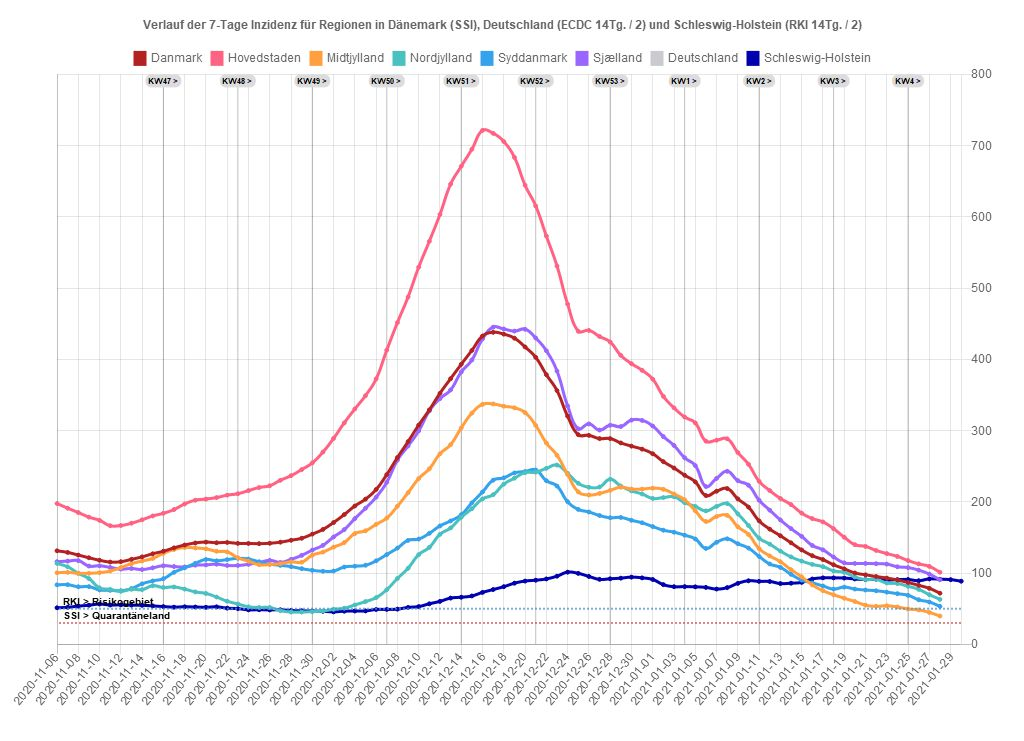
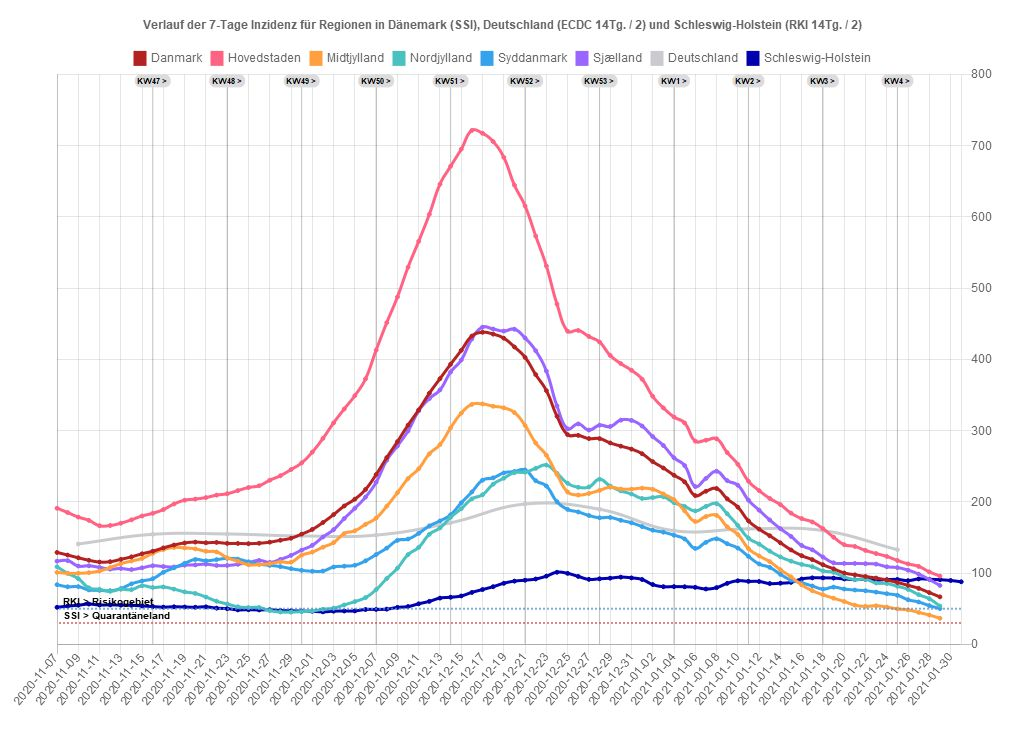
31.01.2021 14:21:19,49

diff --git a/dk/regioner.js b/dk/regioner.js
@@ -1,49 +1,49 @@
 var chdata={ type:'line',
-last_update: '2021-01-30',
-last_dk_data: '2021-01-28',
+last_update: '2021-01-31',
+last_dk_data: '2021-01-29',
 data: {
-labels: ["2020-11-06","2020-11-07","2020-11-08","2020-11-09","2020-11-10","2020-11-11","2020-11-12","2020-11-13","2020-11-14","2020-11-15","2020-11-16","2020-11-17","2020-11-18","2020-11-19","2020-11-20","2020-11-21","2020-11-22","2020-11-23","2020-11-24","2020-11-25","2020-11-26","2020-11-27","2020-11-28","2020-11-29","2020-11-30","2020-12-01","2020-12-02","2020-12-03","2020-12-04","2020-12-05","2020-12-06","2020-12-07","2020-12-08","2020-12-09","2020-12-10","2020-12-11","2020-12-12","2020-12-13","2020-12-14","2020-12-15","2020-12-16","2020-12-17","2020-12-18","2020-12-19","2020-12-20","2020-12-21","2020-12-22","2020-12-23","2020-12-24","2020-12-25","2020-12-26","2020-12-27","2020-12-28","2020-12-29","2020-12-30","2020-12-31","2021-01-01","2021-01-02","2021-01-03","2021-01-04","2021-01-05","2021-01-06","2021-01-07","2021-01-08","2021-01-09","2021-01-10","2021-01-11","2021-01-12","2021-01-13","2021-01-14","2021-01-15","2021-01-16","2021-01-17","2021-01-18","2021-01-19","2021-01-20","2021-01-21","2021-01-22","2021-01-23","2021-01-24","2021-01-25","2021-01-26","2021-01-27","2021-01-28","2021-01-29","2021-01-30"],
+labels: ["2020-11-07","2020-11-08","2020-11-09","2020-11-10","2020-11-11","2020-11-12","2020-11-13","2020-11-14","2020-11-15","2020-11-16","2020-11-17","2020-11-18","2020-11-19","2020-11-20","2020-11-21","2020-11-22","2020-11-23","2020-11-24","2020-11-25","2020-11-26","2020-11-27","2020-11-28","2020-11-29","2020-11-30","2020-12-01","2020-12-02","2020-12-03","2020-12-04","2020-12-05","2020-12-06","2020-12-07","2020-12-08","2020-12-09","2020-12-10","2020-12-11","2020-12-12","2020-12-13","2020-12-14","2020-12-15","2020-12-16","2020-12-17","2020-12-18","2020-12-19","2020-12-20","2020-12-21","2020-12-22","2020-12-23","2020-12-24","2020-12-25","2020-12-26","2020-12-27","2020-12-28","2020-12-29","2020-12-30","2020-12-31","2021-01-01","2021-01-02","2021-01-03","2021-01-04","2021-01-05","2021-01-06","2021-01-07","2021-01-08","2021-01-09","2021-01-10","2021-01-11","2021-01-12","2021-01-13","2021-01-14","2021-01-15","2021-01-16","2021-01-17","2021-01-18","2021-01-19","2021-01-20","2021-01-21","2021-01-22","2021-01-23","2021-01-24","2021-01-25","2021-01-26","2021-01-27","2021-01-28","2021-01-29","2021-01-30","2021-01-31"],
 datasets: [
 {label: 'Danmark',
 backgroundColor: window.chartColors.firebrick,
 borderColor: window.chartColors.firebrick,
 fill: false,
-data: [131.3,129.0,125.3,121.5,118.0,115.5,116.0,119.3,122.8,127.1,130.7,135.4,139.4,142.3,143.5,142.6,143.0,141.7,141.6,141.3,141.9,143.4,146.1,148.9,154.7,161.3,171.0,182.1,194.2,203.8,217.4,238.3,262.2,284.5,307.7,329.1,352.4,372.9,393.1,412.6,432.7,438.0,435.4,429.7,417.4,402.8,378.6,356.2,320.2,294.3,293.3,288.8,288.8,282.7,278.2,274.0,267.5,256.4,247.5,237.4,228.0,208.8,214.9,218.7,204.2,192.6,173.3,161.7,152.4,142.5,132.5,124.4,118.9,111.7,106.0,100.2,97.6,95.2,93.0,90.3,86.8,82.8,78.6,71.8]},
+data: [129.0,125.3,121.5,118.0,115.5,116.0,119.3,122.8,127.1,130.7,135.4,139.4,142.3,143.5,142.6,143.0,141.7,141.6,141.3,141.9,143.4,146.1,148.9,154.7,161.3,171.0,182.1,194.2,203.8,217.4,238.3,262.2,284.5,307.7,329.1,352.4,372.9,393.1,412.6,432.7,438.0,435.4,429.7,417.4,402.8,378.6,356.2,320.2,294.3,293.3,288.8,288.8,282.7,278.2,274.0,267.5,256.4,247.5,237.4,228.0,208.8,214.9,218.7,204.2,192.6,173.3,161.7,152.4,142.5,132.5,124.4,118.9,111.7,106.0,100.2,97.6,95.2,93.0,90.3,86.8,82.8,78.6,72.6,66.6]},
 {label: 'Hovedstaden',
 backgroundColor: window.chartColors.red,
 borderColor: window.chartColors.red,
 fill: false,
-data: [197.7,191.1,185.0,178.6,174.0,166.5,166.8,170.0,174.8,180.2,183.9,189.2,197.0,202.3,203.9,206.0,209.4,211.4,215.8,220.1,222.6,230.3,236.7,245.3,254.7,269.9,289.1,310.8,330.4,349.1,372.6,413.0,451.6,487.5,529.4,565.7,603.5,645.9,671.0,695.0,721.4,717.3,705.7,683.5,644.5,615.3,573.1,531.1,477.6,439.5,440.6,432.1,424.3,405.6,394.0,384.7,372.2,348.1,331.9,319.1,310.7,285.2,286.5,288.5,269.2,252.7,228.9,215.8,204.8,196.1,184.2,176.5,171.8,162.3,150.4,139.9,137.4,131.8,127.4,123.4,117.6,112.9,109.4,101.2]},
+data: [191.1,185.0,178.6,174.0,166.5,166.8,170.0,174.8,180.2,183.9,189.2,197.0,202.3,203.9,206.0,209.4,211.4,215.8,220.1,222.6,230.3,236.7,245.3,254.7,269.9,289.1,310.8,330.4,349.1,372.6,413.0,451.6,487.5,529.4,565.7,603.5,645.9,671.0,695.0,721.4,717.3,705.7,683.5,644.5,615.3,573.1,531.1,477.6,439.5,440.6,432.1,424.3,405.6,394.0,384.7,372.2,348.1,331.9,319.1,310.7,285.2,286.5,288.5,269.2,252.7,228.9,215.8,204.8,196.1,184.2,176.5,171.8,162.3,150.4,139.9,137.4,131.8,127.4,123.4,117.7,112.9,109.4,101.7,95.8]},
 {label: 'Midtjylland',
 backgroundColor: window.chartColors.orange,
 borderColor: window.chartColors.orange,
 fill: false,
-data: [100.4,101.0,99.7,99.7,100.6,102.9,107.8,113.2,116.9,120.6,127.7,133.1,135.9,135.3,134.0,130.6,129.7,121.5,116.7,111.7,112.0,113.2,115.8,115.3,125.1,129.5,136.4,142.8,155.5,159.4,168.4,177.2,193.9,212.8,232.7,246.4,267.4,280.3,303.8,324.5,336.8,337.4,334.2,332.0,325.3,307.2,282.6,265.4,238.4,213.9,209.6,211.8,216.1,220.5,218.0,217.9,219.2,217.6,211.0,202.9,187.4,172.4,179.4,181.0,165.0,154.2,134.4,124.1,116.0,104.8,94.7,83.4,75.3,69.6,64.7,60.1,55.0,53.3,54.1,52.4,49.7,48.3,44.8,39.7]},
+data: [101.0,99.7,99.7,100.6,102.9,107.8,113.2,116.9,120.6,127.7,133.1,135.9,135.3,134.0,130.6,129.7,121.5,116.7,111.7,112.0,113.2,115.8,115.3,125.1,129.5,136.4,142.8,155.5,159.4,168.4,177.2,193.9,212.8,232.7,246.4,267.4,280.3,303.8,324.5,336.8,337.4,334.2,332.0,325.3,307.2,282.6,265.4,238.4,213.9,209.6,211.8,216.1,220.5,218.0,217.9,219.2,217.6,211.0,202.9,187.4,172.4,179.4,181.0,165.0,154.2,134.4,124.1,116.0,104.8,94.7,83.4,75.3,69.6,64.7,60.1,55.0,53.3,54.1,52.4,49.7,48.3,44.8,41.1,36.6]},
 {label: 'Nordjylland',
 backgroundColor: window.chartColors.green,
 borderColor: window.chartColors.green,
 fill: false,
-data: [113.6,108.8,99.7,92.2,79.3,77.1,74.4,77.3,76.8,82.2,79.8,80.5,77.5,73.6,71.4,66.4,60.5,56.6,52.7,51.7,51.7,47.3,45.4,45.3,45.9,46.8,49.2,50.7,55.3,60.0,65.6,76.8,92.4,106.8,125.9,136.1,154.4,163.4,178.3,190.4,204.1,210.0,224.8,233.2,241.0,241.7,247.0,251.6,240.0,226.1,220.5,220.9,231.7,222.2,215.4,211.0,204.8,206.0,207.1,198.8,193.6,187.3,193.6,197.5,183.2,166.8,149.0,140.7,130.9,122.7,116.8,112.2,109.0,103.1,101.0,94.6,90.9,91.2,86.1,85.3,81.5,77.1,69.7,63.1]},
+data: [108.8,99.7,92.2,79.3,77.1,74.4,77.3,76.8,82.2,79.8,80.5,77.5,73.6,71.4,66.4,60.5,56.6,52.7,51.7,51.7,47.3,45.4,45.3,45.9,46.8,49.2,50.7,55.3,60.0,65.6,76.8,92.4,106.8,125.9,136.1,154.4,163.4,178.3,190.4,204.1,210.0,224.8,233.2,241.0,241.7,247.0,251.6,240.0,226.1,220.5,220.9,231.7,222.2,215.4,211.0,204.8,206.0,207.1,198.8,193.6,187.3,193.6,197.5,183.2,166.8,149.0,140.7,130.9,122.7,116.8,112.2,109.0,103.1,101.0,94.6,90.9,91.2,86.1,85.3,81.5,77.1,69.7,63.9,53.7]},
 {label: 'Syddanmark',
 backgroundColor: window.chartColors.blue,
 borderColor: window.chartColors.blue,
 fill: false,
-data: [83.5,83.7,80.8,81.0,76.4,75.8,75.3,78.3,84.9,89.0,92.1,101.1,107.3,113.7,119.1,117.3,118.9,120.7,119.6,115.9,112.5,110.9,109.1,106.2,103.9,102.6,102.9,108.5,109.7,111.0,117.2,126.0,135.1,145.9,147.8,155.8,166.2,173.2,181.9,198.6,213.9,230.4,233.7,240.6,242.6,244.8,229.7,222.2,200.2,189.4,185.8,180.8,177.7,178.1,174.1,170.6,165.3,160.2,157.4,153.2,147.9,134.6,143.2,148.1,141.2,135.1,123.4,112.8,108.0,98.3,90.1,86.3,81.9,77.6,80.3,77.6,76.2,75.2,73.3,71.1,68.8,62.6,59.4,53.3]},
+data: [83.7,80.8,81.0,76.4,75.8,75.3,78.3,84.9,89.0,92.1,101.1,107.3,113.7,119.1,117.3,118.9,120.7,119.6,115.9,112.5,110.9,109.1,106.2,103.9,102.6,102.9,108.5,109.7,111.0,117.2,126.0,135.1,145.9,147.8,155.8,166.2,173.2,181.9,198.6,213.9,230.4,233.7,240.6,242.6,244.8,229.7,222.2,200.2,189.4,185.8,180.8,177.7,178.1,174.1,170.6,165.3,160.2,157.4,153.2,147.9,134.6,143.2,148.1,141.2,135.1,123.4,112.8,108.0,98.3,90.1,86.3,81.9,77.6,80.3,77.6,76.2,75.2,73.3,71.1,68.8,62.6,59.4,54.3,50.2]},
 {label: 'Sjælland',
 backgroundColor: window.chartColors.purple,
 borderColor: window.chartColors.purple,
 fill: false,
-data: [116.0,116.8,117.5,109.9,110.2,108.0,105.6,106.4,105.0,107.4,110.3,109.2,108.6,111.1,111.5,112.5,110.7,110.7,112.3,114.8,117.8,115.0,119.2,124.9,132.3,139.0,150.7,161.0,176.5,191.0,206.6,227.5,258.4,278.4,299.5,327.6,344.9,357.1,382.2,399.1,428.7,445.2,442.6,439.7,442.3,430.0,412.1,383.6,334.7,302.5,309.4,300.8,307.5,305.7,314.7,314.3,306.4,291.6,279.1,261.9,250.9,221.5,232.9,242.9,229.8,223.3,202.3,188.3,174.6,162.4,151.5,138.8,132.6,122.6,114.4,113.5,113.5,113.2,112.6,108.9,107.7,104.1,98.6,90.6]},
+data: [116.8,117.5,109.9,110.2,108.0,105.6,106.4,105.0,107.4,110.3,109.2,108.6,111.1,111.5,112.5,110.7,110.7,112.3,114.8,117.8,115.0,119.2,124.9,132.3,139.0,150.7,161.0,176.5,191.0,206.6,227.5,258.4,278.4,299.5,327.6,344.9,357.1,382.2,399.1,428.7,445.2,442.6,439.7,442.3,430.0,412.1,383.6,334.7,302.5,309.4,300.8,307.5,305.7,314.7,314.3,306.4,291.6,279.1,261.9,250.9,221.5,232.9,242.9,229.8,223.3,202.3,188.3,174.6,162.4,151.5,138.8,132.6,122.6,114.4,113.5,113.5,113.2,112.6,108.9,107.7,104.1,98.6,91.0,82.6]},
 {label: 'Deutschland',
 backgroundColor: window.chartColors.grey,
 borderColor: window.chartColors.grey,
 spanGaps: true,
 fill: false,
-data: [,,,,,,,,,,,,,,,,,,,,,,,,,,,,,,,,,,,,,,,,,,,,,,,,,,,,,,,,,,,,,,,,,,,,,,,,,,,,,,,,,,,,,]},
+data: [,,140.9,,,,,,,154.4,,,,,,,154.9,,,,,,,152.1,,,,,,,153.3,,,,,,,170.6,,,,,,,196.9,,,,,,,189.6,,,,,,,159.5,,,,,,,162.1,,,,,,,159.7,,,,,,,132.9,,,,,,]},
 {label: 'Schleswig-Holstein',
 backgroundColor: '#0000AF',
 borderColor: '#0000AF',
 fill: false,
-data: [51.3,52.0,53.6,54.9,56.5,55.2,55.4,55.0,54.8,53.9,53.0,52.2,52.7,52.4,52.0,52.6,50.8,50.1,48.4,48.6,48.3,48.5,47.5,47.1,46.7,46.4,45.6,46.5,46.8,46.9,48.9,49.0,49.4,51.8,53.0,56.9,60.3,64.9,66.1,67.9,72.9,76.9,80.9,85.8,88.8,90.0,91.8,95.7,101.3,99.6,95.3,91.2,92.0,92.9,94.3,93.3,91.0,83.8,80.9,81.0,80.7,79.9,77.6,79.6,85.6,89.2,88.4,88.2,85.3,85.8,87.0,91.7,93.3,93.3,93.0,91.8,90.9,91.3,90.2,90.8,91.0,89.3,91.8,91.4,90.8,88.6]}
+data: [52.0,53.6,54.9,56.5,55.2,55.4,55.0,54.8,53.9,53.0,52.2,52.7,52.4,52.0,52.6,50.8,50.1,48.4,48.6,48.3,48.5,47.5,47.1,46.7,46.4,45.6,46.5,46.8,46.9,48.9,49.0,49.4,51.8,53.0,56.9,60.3,64.9,66.1,67.9,72.9,76.9,80.9,85.7,88.7,90.0,91.7,95.7,101.2,99.6,95.3,91.2,92.0,92.9,94.3,93.3,91.0,83.9,80.9,81.0,80.8,80.0,77.7,79.6,85.6,89.2,88.4,88.2,85.3,85.8,87.0,91.7,93.3,93.3,93.0,91.8,90.9,91.3,90.2,90.8,91.1,89.4,91.8,91.3,90.7,89.6,87.8]}
 ]}};
 

diff --git a/sterblichkeit/sterbefaelle7_ueber_us.js b/sterblichkeit/sterbefaelle7_ueber_us.js
@@ -13,7 +13,7 @@ lastcw: '2021/02',
 lastcw_covid: '2021/03',
 covid_sum: '421129',
 jh_last_covid_dayoffset: '6',
-jh_covid_sum: '439439',
+jh_covid_sum: '439463',
 labels: ["2020/01","2020/02","2020/03","2020/04","2020/05","2020/06","2020/07","2020/08","2020/09","2020/10","2020/11","2020/12","2020/13","2020/14","2020/15","2020/16","2020/17","2020/18","2020/19","2020/20","2020/21","2020/22","2020/23","2020/24","2020/25","2020/26","2020/27","2020/28","2020/29","2020/30","2020/31","2020/32","2020/33","2020/34","2020/35","2020/36","2020/37","2020/38","2020/39","2020/40","2020/41","2020/42","2020/43","2020/44","2020/45","2020/46","2020/47","2020/48","2020/49","2020/50","2020/51","2020/52","2020/53","2021/01","2021/02","2021/03","2021/04","2021/05"],
 type: 'line',
 _ecdc_data: [0,0,0,0,0,0,0,0,2,19,48,402,2038,7138,12461,18574,14194,12806,11846,10034,8158,6663,6131,5218,4243,5829,4143,5258,5329,6401,7925,8078,7114,6754,6263,5872,5138,5430,5247,5038,4977,4903,5556,5766,6576,8642,10568,10091,15437,16867,18493,15656,18264,22852,23169,23518,,],

diff --git a/sh/index_sh_alter.html b/sh/index_sh_alter.html
@@ -5,7 +5,7 @@
 <meta property="og:image" content="index_sh_alter.jpg" />
 <meta property="og:type" content="website" />
 <meta property="og:locale" content="de_DE" />
-<meta property="og:updated_time" content="2021-01-31T07:05:41+01:00" />
+<meta property="og:updated_time" content="2021-01-31T14:21:19+01:00" />
 <title>Altersverteilung der COVID-19-Fälle in Schleswig-Holstein</title>
 <link rel="stylesheet" href="../css/style.css" media="screen" type="text/css">
 <link rel="stylesheet" media="screen" href="Chart.min.css"> 

diff --git a/sh/index_pi_alter.html b/sh/index_pi_alter.html
@@ -5,7 +5,7 @@
 <meta property="og:image" content="index_pi_alter.jpg" />
 <meta property="og:type" content="website" />
 <meta property="og:locale" content="de_DE" />
-<meta property="og:updated_time" content="2021-01-31T07:05:41+01:00" />
+<meta property="og:updated_time" content="2021-01-31T14:21:19+01:00" />
 <title>Altersverteilung der COVID-19-Fälle im Kreis Pinneberg</title>
 <link rel="stylesheet" href="../css/style.css" media="screen" type="text/css">
 <link rel="stylesheet" media="screen" href="Chart.min.css"> 

diff --git a/sh/index.html b/sh/index.html
@@ -5,7 +5,7 @@
 <meta property="og:image" content="index.jpg" />
 <meta property="og:type" content="website" />
 <meta property="og:locale" content="de_DE" />
-<meta property="og:updated_time" content="2021-01-31T07:05:41+01:00" />
+<meta property="og:updated_time" content="2021-01-31T14:21:19+01:00" />
 <title>COVID-19-Fälle im Kreis Pinneberg</title>
 <link rel="stylesheet" href="../css/style.css" media="screen" type="text/css">
 <link rel="stylesheet" media="screen" href="Chart.min.css"> 
